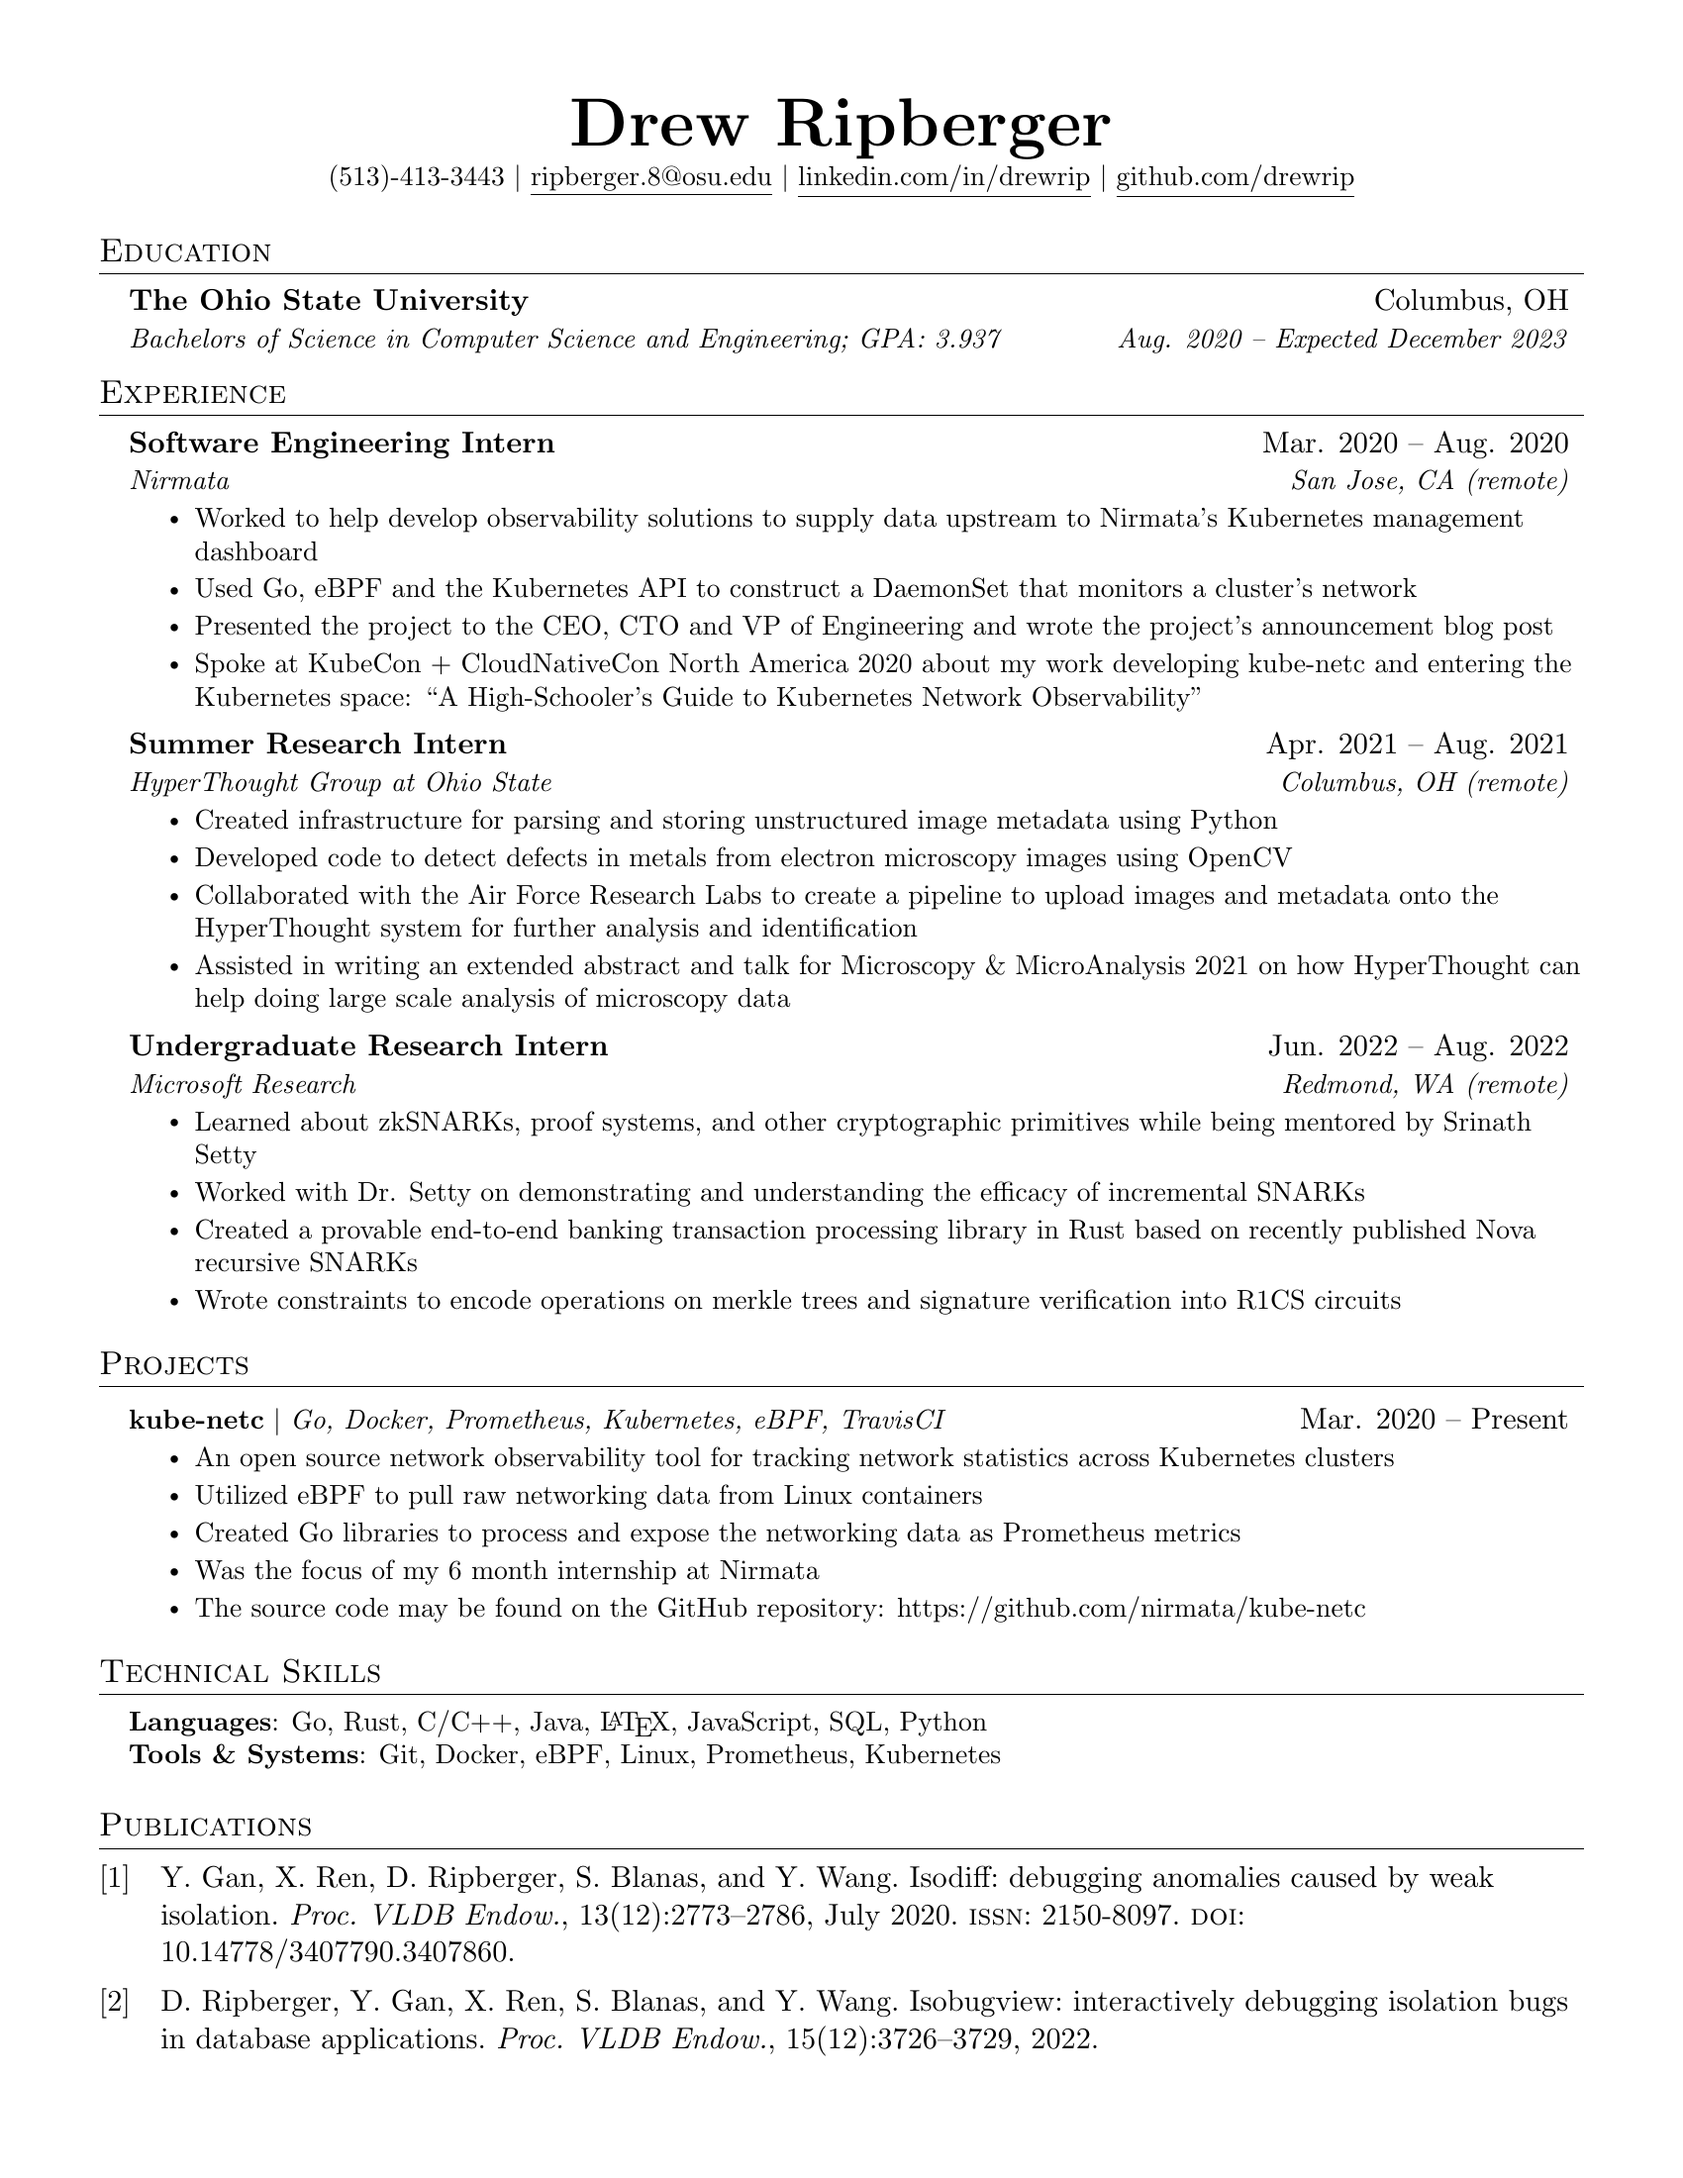
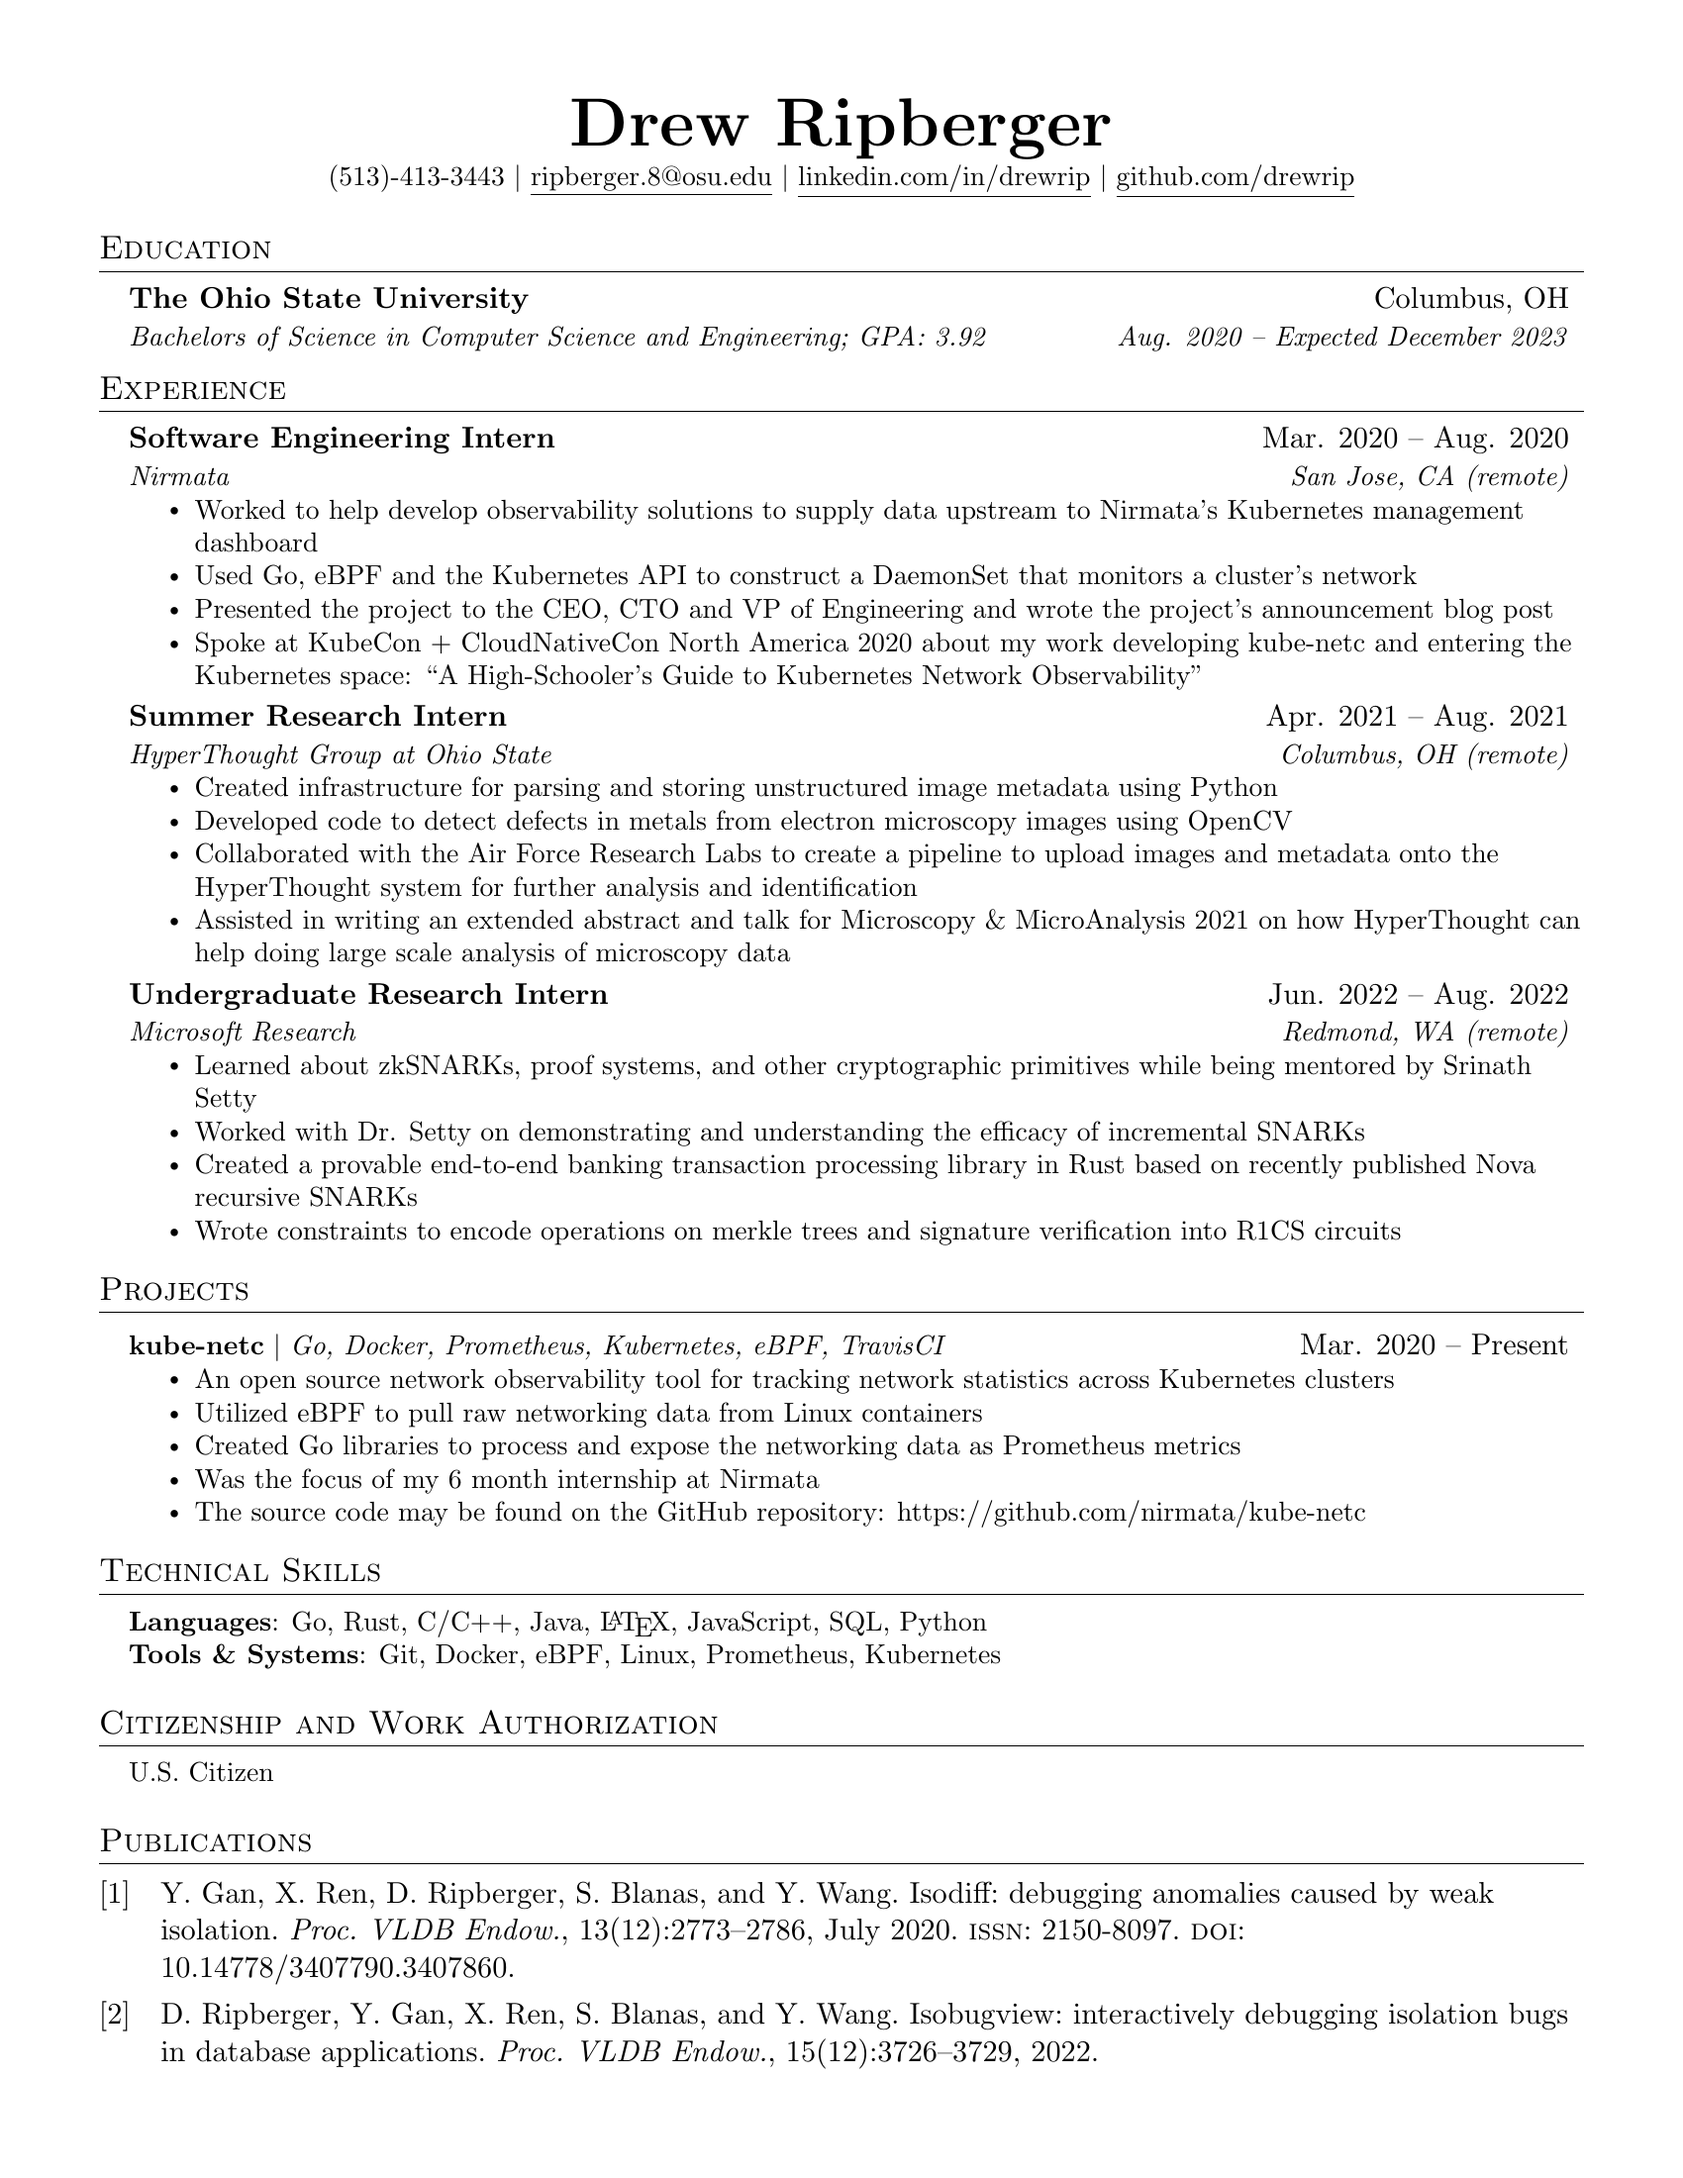
citizenship

Changed region(s): [[0.0624, 0.0927, 0.9353, 0.9582], [0.8106, 0.1236, 0.9353, 0.1545]]

diff --git a/resume.tex b/resume.tex
@@ -119,7 +119,7 @@
   \resumeSubHeadingListStart
     \resumeSubheading
       {The Ohio State University}{Columbus, OH}
-      {Bachelors of Science in Computer Science and Engineering; GPA: 3.937}{Aug. 2020 -- Expected December 2023}
+      {Bachelors of Science in Computer Science and Engineering; GPA: 3.92}{Aug. 2020 -- Expected December 2023}
   \resumeSubHeadingListEnd
 
 
@@ -182,6 +182,14 @@
     \small{\item{
      \textbf{Languages}{: Go, Rust, C/C++, Java, \LaTeX, JavaScript, SQL, Python} \\
      \textbf{Tools \& Systems}{: Git, Docker, eBPF, Linux, Prometheus, Kubernetes} \\
+    }}
+ \end{itemize}
+
+%-----------OTHER-----------
+\section{Citizenship and Work Authorization}
+ \begin{itemize}[leftmargin=0.15in, label={}]
+    \small{\item{
+        U.S. Citizen
     }}
  \end{itemize}
 
